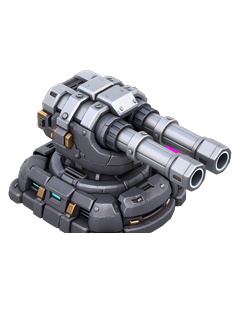
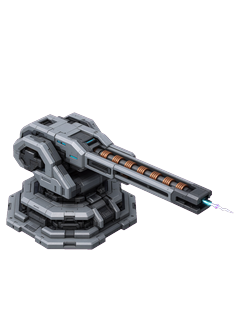
Replace the five guns with new space turrets.
The old buildings are gone. Lance, Halo, Crater, Rail, and Beacon are new hardware, sized to one pad.

diff --git a/src/game/version.ts b/src/game/version.ts
@@ -1,1 +1,1 @@
-export const GAME_VERSION = "0.14.5";
+export const GAME_VERSION = "0.15.0";
